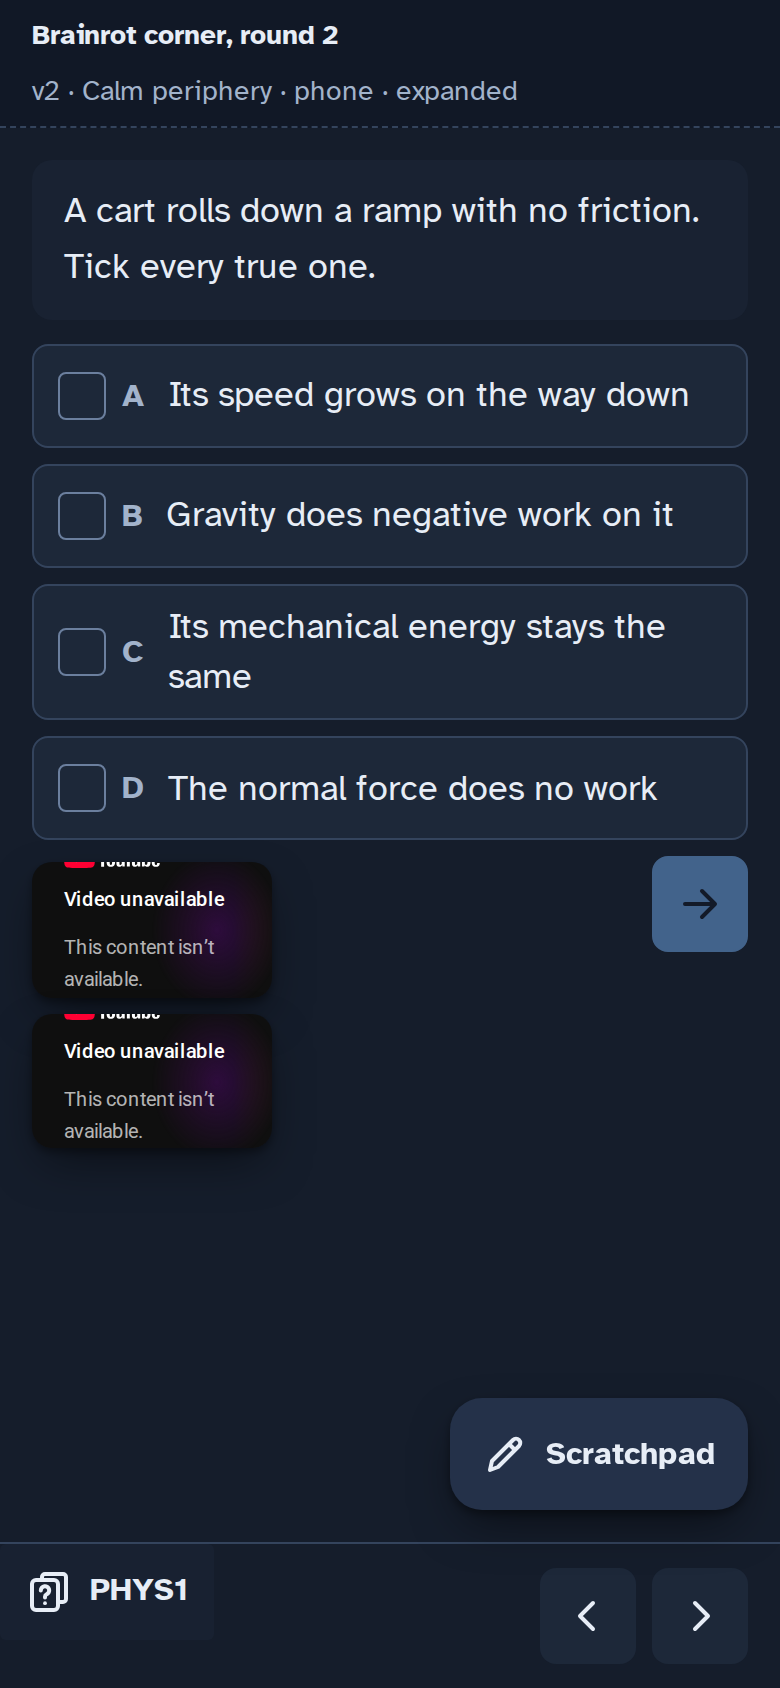
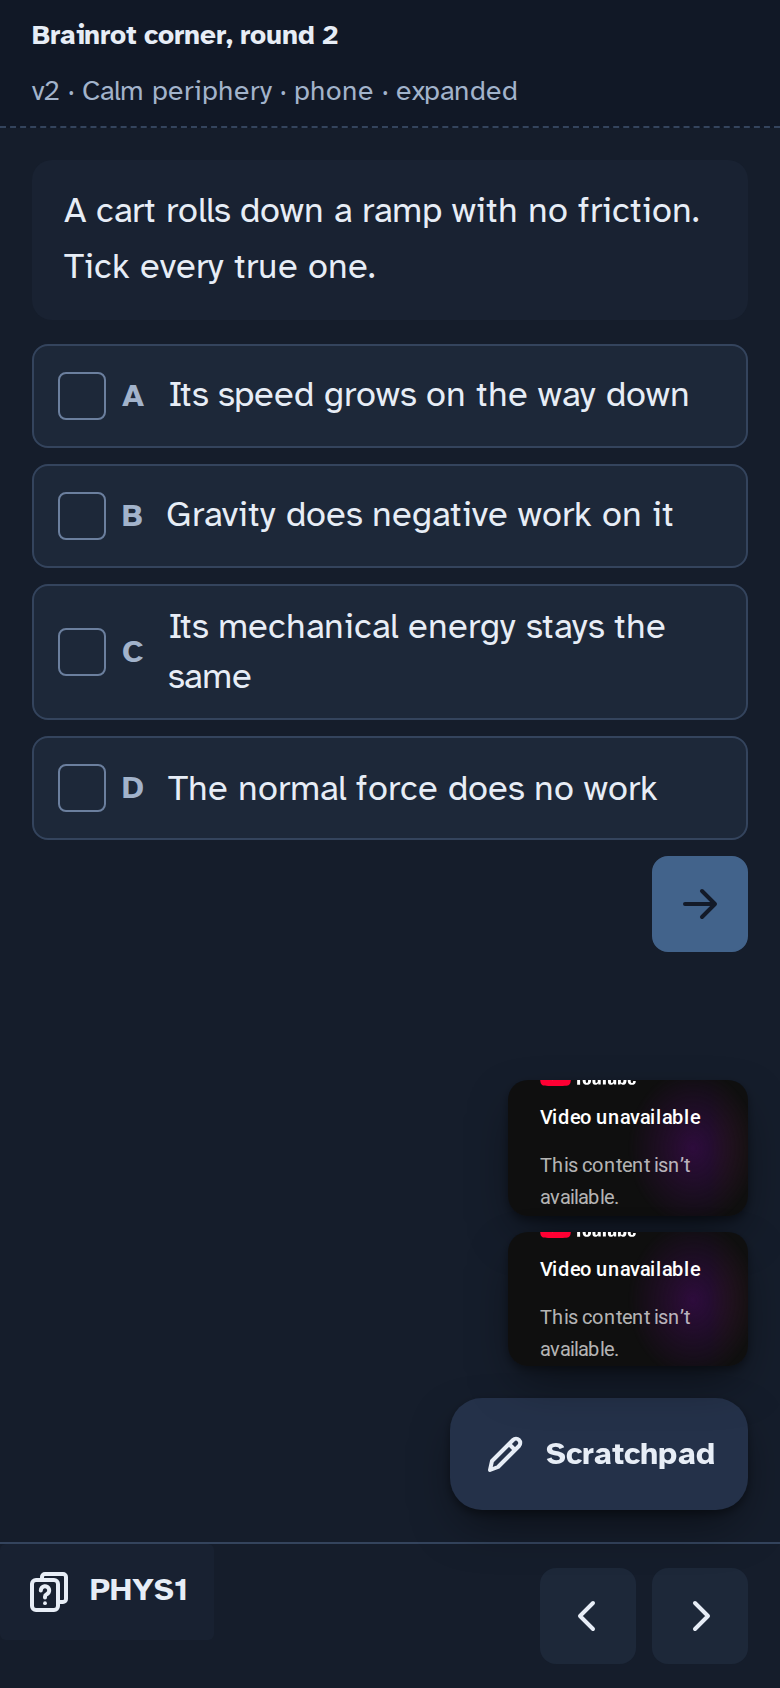
Round 2 (agent): formula card steps x5 and plain iOS-PiP brainrot duo x5, shots at 390 + 1920 (+ collapsed / controls), Round 2 table in FORMULA-CARD.md
Claude-Session: https://claude.ai/code/session_015Jf45USw9bmW1WyUQmMUSQ

diff --git a/design/mockups/brainrot-r2.html b/design/mockups/brainrot-r2.html
@@ -136,7 +136,7 @@ const SHUT = {
 }[v];   // v4 has none: collapsed = the mini size, still the duo
 
 let collapsed = P.get("state") === "collapsed" || (P.get("state") !== "expanded" && (innerHeight < 700 || RM));
-let right = false, pos = null;
+let right = (v === 2 && !desk) || (v === 5 && desk), pos = null;   // v2 phone: right edge; v5 desktop: the right gutter
 const label = () => { document.getElementById("lab").textContent = `v${v} · ${NAME[v]} · ${desk ? "desktop" : "phone"} · ${collapsed ? "collapsed" : "expanded"}`; };
 
 const topY = () => document.querySelector(".mbar").getBoundingClientRect().bottom + G;
@@ -165,7 +165,7 @@ function home(h) {
   if (desk && v === 2) return (innerHeight - h) / 2;                        // periphery: centred on the window's height
   if (desk && v === 5) return qbox.getBoundingClientRect().top;            // grid: top on the question box's top line
   if (!desk && v === 5) return chk.getBoundingClientRect().top;            // grid: top on the Check row, in the slot left of it
-  if (!desk && v === 2) return (innerHeight - h) / 2 + 80;                 // periphery: mid-edge, off the thumb's path
+  if (!desk && v === 2) return fab.getBoundingClientRect().top - G - h;    // periphery: small, right edge, stacked over the Scratchpad button
   return floorY(h);                                                        // corner, thumb zone, sizes: the bottom corner
 }
 function place(wantY) {

diff --git a/design/mockups/formula-card-r2.html b/design/mockups/formula-card-r2.html
@@ -30,7 +30,7 @@ body { padding: 0 !important; }
 .fc ol { list-style: none; margin: 0; padding: 0; }
 .fc .n { font-size: var(--t-sm); font-weight: 700; color: var(--muted); font-variant-numeric: tabular-nums; line-height: 1.4; }
 .fc .f { font-size: var(--t-md); line-height: 1.4; }
-.fc .f .katex { font-size: 1.12em; white-space: nowrap; }   /* a formula is one unit (STYLE.md: Math in text) */
+.fc .f .katex { font-size: 1.08em; white-space: nowrap; }   /* a formula is one unit (STYLE.md: Math in text) */
 .fc .g { font-size: var(--t-xs); color: var(--muted); line-height: 1.4; }
 .fc .then { font-size: var(--t-xs); color: var(--muted); line-height: 1.4; }
 
@@ -49,7 +49,7 @@ body { padding: 0 !important; }
 .v2 { padding: 0 var(--s1); }
 .v2 .hd { color: var(--muted); }
 .v2 li { display: grid; grid-template-columns: 1.75rem minmax(0, 1fr); column-gap: var(--s2); align-items: baseline; }
-.v2 li .f .katex { font-size: 1.2em; }
+
 .v2 li .g { grid-column: 2; margin-top: 2px; }
 .v2 .then { grid-column: 2; display: block; margin: var(--s2) 0; }
 

diff --git a/design/FORMULA-CARD.md b/design/FORMULA-CARD.md
@@ -27,3 +27,72 @@ the paper they get in the exam. Runner-up 5 if the group wants it even more pre-
 | 5 | Mini pill "Brainrot ▸", opens 1 on tap | the least brainrot: one tap away |
 
 **Pick: 1** (draggable, collapses to 5's pill with –, ✕ hides it for the session).
+
+## Round 2
+
+Tony picked formula card 5 ("Steps in order") and brainrot 4 ("Stacked duo"). Five refinements of each, built to STYLE.md: app.css
+tokens only, no `--mark`, borders `--bw` or 1px dividers, weights 400 and 700, sentence case, no emoji, sprite icons, a reduced-motion
+path for every animation.
+
+Mockups: `design/mockups/formula-card-r2.html?v=N` (v4 also takes `&open=0|1`) and `design/mockups/brainrot-r2.html?v=N`
+(`&state=collapsed`, `&state=expanded`, `&ctl=1` shows the controls as after a tap). Shots in `design/shots/`:
+`formula-card-r2-N-{390,1920}.png`, `brainrot-r2-N-{390,1920}.png`, `brainrot-r2-N-collapsed-390.png`, `brainrot-r2-N-controls-390.png`.
+The 390 shots are 390x844 at 2x.
+
+### Formula card: steps in order
+
+Same content in all five: the tip line on top, then the question, the answer box, and then the card. The card shows the 3 sheet rows in
+order of use, with "then" between them and the sheet group under each one.
+
+| # | look | school / rule | risk |
+|---|---|---|---|
+| 1 | One `--sheet` card. Fixed columns: number, formula, group. "Then" is its own row, with a 1px rule running to the edge. On desktop the group gets its own column. | Swiss / International grid: strict columns, flush left, rules for structure | A third surface on the page. On desktop the group column reads like a table. |
+| 2 | No box and no lines, just the page. The formula is `--ink`; the number, group and "then" are `--muted`. The gaps do the grouping. | Refactoring UI hierarchy: use weight and colour instead of borders | It can drift away from the answer box. With no edge it reads as loose text. |
+| 3 | Inside the question box, under the answer, after a 1px divider. Desktop shows the 3 steps on one line; the phone stacks them. | Gestalt common region: question, answer and the way there form one region | The box grows. Long formulas wrap the desktop line. |
+| 4 | One folded row shows the chain (formula, then, formula...) with a chevron. Open, it shows the numbered steps with their groups. It starts folded on phones and open on desktop. | Progressive disclosure | Folded, the group line is hidden. It is one more tap on phones. |
+| 5 | A `--sheet` card. Desktop runs the steps left to right, linked by "— then —". The phone stacks them on a 1px rail, with numbers in 8px `--raised` squares. | Material 3 stepper + Gestalt connectedness | The busiest look. Three long formulas will not fit one desktop row. |
+
+**Pick: 3.** The steps live in the box the student is already looking at, and there is no new surface. On desktop it costs one line.
+Runner-up: 1, if Tony wants the card separate from the question.
+
+### Brainrot corner: stacked duo
+
+Tony asked mid-round for a plain look, like iOS picture-in-picture YouTube: no frame, card, border, tab bar or labels. So all five
+are the same 2 bare videos (Subway on top, parkour under). Each video has 10px corners and `--shadow-3`, with an 8px gap between them.
+Collapse (–) and close (✕) are 44px see-through overlays on the video (72% `--field`). They show on hover, on keyboard focus, or for
+3 s after a tap. The five differ only in placement, size and behaviour.
+
+Shared behaviour:
+- You can drag it from anywhere, because the players take no pointer. On release it snaps to the nearest edge (`--d-move` ease-out).
+- It steps off live controls: the choices, Check, the box, the Scratchpad button and the bar. It tries the same edge, then the other
+  edge, then collapses.
+- It starts collapsed on screens under 700px tall. ✕ hides it for the session.
+- Reduced motion: the players load paused and it starts collapsed. Snaps happen instantly.
+- The players are built once and moved, so collapsing or dragging never restarts them.
+
+| # | look | school / rule | risk |
+|---|---|---|---|
+| 1 | Bottom-left corner, 176px wide on phone and 320px on desktop. It snaps to the 4 corners. Collapsed, it slides into the edge and leaves a 44x96 tab with a chevron. | Apple HIG picture-in-picture (corner snap, stash) | Medium size. On the phone it takes the free space left of the Scratchpad button. |
+| 2 | Small: 120px, on the right edge, stacked above the Scratchpad button. On desktop it is centred in the empty left gutter, as wide as the gutter allows (up to 360px). Collapsed, it is one 48px button. | Calm Technology, periphery | Tiny on phones. Stacked over the Scratchpad button, it makes the right edge busier. |
+| 3 | The biggest: 192px on phone and 360px on desktop, bottom-left. The controls sit on the lower video's bottom edge, at the thumb. Collapsed, it is a 56px FAB with a play icon, mirroring the Scratchpad button. | Fitts's law, thumb zone | The most screen on phones. It takes the whole space left of the Scratchpad button. |
+| 4 | Bottom-left, in 3 sizes: large; small while an answer control has focus; mini (80px) when collapsed, still playing. Tapping again with the controls showing swaps large and small. | iOS PiP sizes + Calm (it steps back while you answer) | It changes size by itself, and that motion is not caused by a tap. The mini keeps moving at the edge of view. |
+| 5 | Phone: in the empty slot left of Check, its top on the Check row and its left edge on the column line. Desktop: the right gutter, its top level with the question box. Collapsed, it is a 48px button on the column line. | Swiss grid: it sits on the page's own lines | It leans on the Check row. A taller answer (a box, no Check) moves the slot. |
+
+**Pick: 1.** It is the iOS picture-in-picture Tony described, with the corner snap and stash students already know from their phones.
+It keeps clear of the Scratchpad button. Runner-up: 4, if Tony wants it to step back on its own while the student answers.
+
+### Rules bent (Tony's call)
+
+- STYLE.md §1.6 and §2.8 say no ambient motion, and loops are only for "busy". The corner is a looping video on purpose. The
+  reduced-motion path does not play it.
+- §1.7 says to show state, never hide it. The overlay controls hide until hover or a tap, iOS style. The video itself is the visible
+  control, so §1.11 still holds.
+- §2.7 does not list the corner's shadow. It needs a row (`--shadow-3`, `--shadow-4` while dragged), like the Scratchpad button.
+- The see-through overlay is `color-mix(var(--field) 72%, transparent)`. It uses a token, but the alpha is a new value: a
+  `--scrim` token if it ships.
+- Two new sprite symbols for `index.html`, drawn to §4: `i-min` (a line) and `i-play` (an outline triangle).
+- Only v3's collapsed FAB uses the FAB's 16px radius. The videos are 10px, per Tony.
+
+Shots note: in this sandbox YouTube answers "Video unavailable" (the headless browser here is refused), so the shots show YouTube's
+error card inside the real iframes. The pages embed the real players (`youtube-nocookie.com/embed/<id>?autoplay=1&mute=1&loop=1&...`);
+check them in a normal browser.
